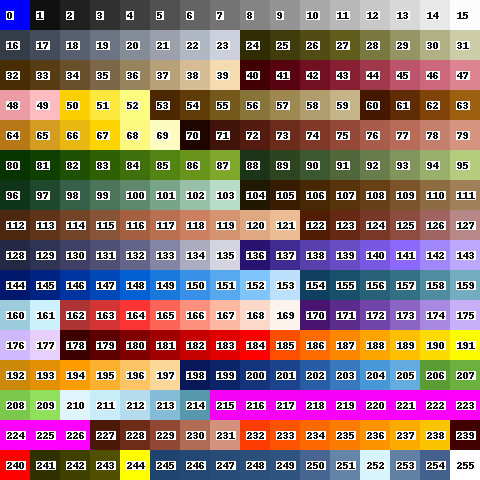
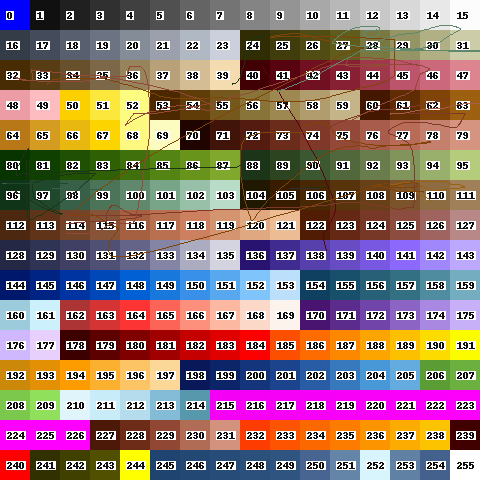
Change: bonus 2 extra teal colours

diff --git a/src/train/model_type.py b/src/train/model_type.py
@@ -2471,7 +2471,7 @@ class AutomobileCarBase(CarModelTypeBase):
         "COMPANY_COLOUR_NO_WEATHERING",
         "COMPLEMENT_COMPANY_COLOUR_NO_WEATHERING",
         "FREIGHT_PEWTER",
-        "FREIGHT_TEAL",
+        "FREIGHT_BONUS_TEAL",
     ]
 
     def __init__(self, **kwargs):
@@ -2585,7 +2585,7 @@ class AutomobileEnclosedCar(CarModelTypeBase):
         "COMPANY_COLOUR_NO_WEATHERING",
         "COMPLEMENT_COMPANY_COLOUR_NO_WEATHERING",
         "FREIGHT_GREY_NO_WEATHERING",
-        "FREIGHT_TEAL",
+        "FREIGHT_BONUS_TEAL",
     ]
 
     model_id_root = "enclosed_automobile_car"
@@ -2714,7 +2714,7 @@ class BoxCarBase(CarModelTypeBase):
         "COMPLEMENT_COMPANY_COLOUR_USE_WEATHERING",
         "COMPANY_COLOUR_USE_WEATHERING",
         "FREIGHT_BONUS_RED_OXIDE",
-        "FREIGHT_TEAL",
+        "FREIGHT_BONUS_TEAL",
     ]
 
     def __init__(self, **kwargs):
@@ -2775,7 +2775,7 @@ class BoxCarType2(BoxCarBase):
         "COMPLEMENT_COMPANY_COLOUR_USE_WEATHERING",
         "COMPANY_COLOUR_USE_WEATHERING",
         "FREIGHT_BONUS_RED_OXIDE",
-        "FREIGHT_TEAL",
+        "FREIGHT_BONUS_TEAL",
     ]
 
     model_id_root = "box_car_type_2"
@@ -2888,14 +2888,12 @@ class BoxCarSlidingWallBase(BoxCarBase):
 
     liveries = [
         "RANDOM_LIVERIES_COMPLEMENT_COMPANY_COLOUR",
-        "RANDOM_LIVERIES_RUBY_RUST", # CABBAGE?
+        "RANDOM_LIVERIES_RUBY_GREY_NIGHTSHADE_NO_WEATHERING",
         "RANDOM_LIVERIES_GREY_PEWTER_SILVER_NO_WEATHERING",
         "RANDOM_LIVERIES_TEAL_PEWTER_SILVER",
         "COMPLEMENT_COMPANY_COLOUR_USE_WEATHERING",
         "COMPANY_COLOUR_USE_WEATHERING",
-        "FREIGHT_BONUS_RED_OXIDE", # CABBAGE
-        "FREIGHT_NIGHTSHADE", # CABBAGE?
-        "FREIGHT_TEAL",
+        "FREIGHT_BONUS_TEAL",
     ]
 
     variant_group_id_root = "wagon_group_sliding_wall_cars"
@@ -2971,12 +2969,12 @@ class BoxCarVehicleParts(BoxCarBase):
     liveries = [
         "RANDOM_LIVERIES_COMPLEMENT_COMPANY_COLOUR",
         "RANDOM_LIVERIES_VARIETY_MUTED",
-        "RANDOM_LIVERIES_GREY_PEWTER_SILVER_NO_WEATHERING",  # CABBAGE
+        "RANDOM_LIVERIES_GREY_PEWTER_SILVER_NO_WEATHERING",
         "RANDOM_LIVERIES_TEAL_PEWTER_SILVER",
         "COMPLEMENT_COMPANY_COLOUR_USE_WEATHERING",
         "COMPANY_COLOUR_USE_WEATHERING",
         "FREIGHT_BONUS_RED_OXIDE",
-        "FREIGHT_TEAL",
+        "FREIGHT_BONUS_TEAL",
         "FREIGHT_PEWTER",
     ]
 
@@ -3045,7 +3043,7 @@ class BulkOpenCarAggregateBase(BulkOpenCarBase):
         "COMPANY_COLOUR_USE_WEATHERING",
         "FREIGHT_BONUS_RED_OXIDE", # CABBAGE
         "FREIGHT_OCHRE",
-        "FREIGHT_TEAL",
+        "FREIGHT_BONUS_TEAL",
     ]
 
     variant_group_id_root = "wagon_group_aggregate_bulk_open_cars"
@@ -3176,7 +3174,7 @@ class BulkOpenCarMineralBase(BulkOpenCarBase):
         "RANDOM_LIVERIES_TEAL_PEWTER_SILVER",
         "COMPLEMENT_COMPANY_COLOUR_USE_WEATHERING",
         "COMPANY_COLOUR_USE_WEATHERING",
-        "FREIGHT_BONUS_RED_OXIDE", # CABBAGE
+        "FREIGHT_BONUS_RED_OXIDE",
     ]
 
     variant_group_id_root = "wagon_group_mineral_bulk_open_cars"
@@ -3261,7 +3259,7 @@ class BulkOpenCarScrapMetalBase(BulkOpenCarBase):
         "COMPLEMENT_COMPANY_COLOUR_USE_WEATHERING",
         "COMPANY_COLOUR_USE_WEATHERING",
         "FREIGHT_BONUS_RED_OXIDE",
-        "FREIGHT_TEAL",
+        "FREIGHT_BONUS_TEAL",
     ]
 
     variant_group_id_root = "wagon_group_scrap_metal_cars"
@@ -3334,7 +3332,7 @@ class BulkOpenCarTipplerBase(BulkOpenCarBase):
         "FREIGHT_OCHRE",
         "FREIGHT_SAND",
         "FREIGHT_SILVER",
-        "FREIGHT_TEAL",
+        "FREIGHT_BONUS_TEAL",
     ]
 
     variant_group_id_root = "wagon_group_tippler_bulk_open_cars"
@@ -3557,7 +3555,7 @@ class CaneBinCar(CarModelTypeBase):
         "RANDOM_LIVERIES_RUST_GREY_NIGHTSHADE",
         "COMPLEMENT_COMPANY_COLOUR_USE_WEATHERING",
         "COMPANY_COLOUR_USE_WEATHERING",
-        "FREIGHT_BONUS_RED_OXIDE", # CABBAGE
+        "FREIGHT_BONUS_RED_OXIDE",
         "FREIGHT_GREY",
         "FREIGHT_NIGHTSHADE",
     ]
@@ -3689,7 +3687,7 @@ class CoilCarBase(CarModelTypeBase):
         "COMPLEMENT_COMPANY_COLOUR_USE_WEATHERING",
         "COMPANY_COLOUR_USE_WEATHERING",
         "FREIGHT_BONUS_RED_OXIDE",
-        "FREIGHT_TEAL",
+        "FREIGHT_BONUS_TEAL",
     ]
 
     def __init__(self, **kwargs):
@@ -4051,7 +4049,7 @@ class ExpressFoodCarBase(CarModelTypeBase):
         "RANDOM_LIVERIES_TEAL_PEWTER_SILVER",
         "COMPLEMENT_COMPANY_COLOUR_USE_WEATHERING",
         "COMPANY_COLOUR_USE_WEATHERING",
-        "FREIGHT_TEAL",
+        "FREIGHT_BONUS_TEAL",
     ]
 
     def __init__(self, **kwargs):
@@ -4381,7 +4379,7 @@ class FoodHopperCarBase(FarmProductsHopperCarBase):
     liveries = [
         "COMPANY_COLOUR_USE_WEATHERING",
         "COMPLEMENT_COMPANY_COLOUR_USE_WEATHERING",
-        "FREIGHT_TEAL",
+        "FREIGHT_BONUS_TEAL",
     ]
 
     variant_group_id_root = "wagon_group_food_hopper_cars"
@@ -4473,7 +4471,7 @@ class FlatCarBase(CarModelTypeBase):
         "RANDOM_LIVERIES_TEAL_PEWTER_SILVER",
         "COMPLEMENT_COMPANY_COLOUR_USE_WEATHERING",
         "COMPANY_COLOUR_USE_WEATHERING",
-        "FREIGHT_BONUS_RED_OXIDE", # CABBAGE
+        "FREIGHT_BONUS_RED_OXIDE",
         # didn't bother with teal, marginal benefit
     ]
 
@@ -4993,7 +4991,7 @@ class HopperCarMGRBase(HopperCarBase):
         "COMPLEMENT_COMPANY_COLOUR_USE_WEATHERING",
         "COMPANY_COLOUR_USE_WEATHERING",
         "FREIGHT_BONUS_RED_OXIDE",
-        "FREIGHT_TEAL",
+        "FREIGHT_BONUS_TEAL",
     ]
     variant_group_id_root = "wagon_group_mgr_hopper_cars"
     # don't include MGR hoppers in randomised lists, they don't look good
@@ -5278,7 +5276,7 @@ class KaolinHopperCar(CarModelTypeBase):
     liveries = [
         "COMPANY_COLOUR_USE_WEATHERING",
         "COMPLEMENT_COMPANY_COLOUR_USE_WEATHERING",
-        "FREIGHT_TEAL",
+        "FREIGHT_BONUS_TEAL",
     ]
 
     model_id_root = "kaolin_hopper_car"
@@ -5808,7 +5806,7 @@ class MineralCoveredHopperCarLimeBase(MineralCoveredHopperCarBase):
         "COMPLEMENT_COMPANY_COLOUR_USE_WEATHERING",
         "COMPANY_COLOUR_USE_WEATHERING",
         "FREIGHT_SAND", # CABBAGE?
-        "FREIGHT_TEAL",
+        "FREIGHT_BONUS_TEAL",
     ]
 
     variant_group_id_root = "wagon_group_lime_covered_hopper_cars"
@@ -5940,7 +5938,7 @@ class MineralCoveredHopperCarRollerRoofBase(MineralCoveredHopperCarBase):
         "FREIGHT_NIGHTSHADE", # CABBAGE?
         "FREIGHT_SAND", # CABBAGE?
         "FREIGHT_SILVER", # CABBAGE?
-        "FREIGHT_TEAL",
+        "FREIGHT_BONUS_TEAL",
     ]
 
     variant_group_id_root = "wagon_group_roller_roof_hopper_cars"
@@ -6027,7 +6025,7 @@ class MineralCoveredHopperCarSaltBase(MineralCoveredHopperCarBase):
         "FREIGHT_BONUS_RED_OXIDE",
         "FREIGHT_SAND", # CABBAGE?
         "FREIGHT_SILVER", # CABBAGE?
-        "FREIGHT_TEAL",
+        "FREIGHT_BONUS_TEAL",
     ]
 
     variant_group_id_root = "wagon_group_salt_covered_hopper_cars"
@@ -6111,7 +6109,7 @@ class OpenCarBase(CarModelTypeBase):
         "COMPLEMENT_COMPANY_COLOUR_USE_WEATHERING",
         "COMPANY_COLOUR_USE_WEATHERING",
         "FREIGHT_BONUS_RED_OXIDE",
-        "FREIGHT_TEAL",
+        "FREIGHT_BONUS_TEAL",
     ]
 
     randomised_candidate_groups = [
@@ -6198,7 +6196,7 @@ class OpenCarHighEnd(OpenCarBase):
         "COMPLEMENT_COMPANY_COLOUR_USE_WEATHERING",
         "COMPANY_COLOUR_USE_WEATHERING",
         "FREIGHT_BONUS_RED_OXIDE",
-        "FREIGHT_TEAL",
+        "FREIGHT_BONUS_TEAL",
     ]
 
     model_id_root = "high_end_open_car"
@@ -6236,7 +6234,7 @@ class OpenCarMill(OpenCarBase):
         "COMPLEMENT_COMPANY_COLOUR_USE_WEATHERING",
         "COMPANY_COLOUR_USE_WEATHERING",
         "FREIGHT_BONUS_RED_OXIDE",
-        "FREIGHT_TEAL",
+        "FREIGHT_BONUS_TEAL",
     ]
 
     model_id_root = "mill_open_car"
@@ -6838,7 +6836,7 @@ class PeatCar(CarModelTypeBase):
         "RANDOM_LIVERIES_OIL_BLACK_OBSIDIAN",
         "COMPLEMENT_COMPANY_COLOUR_USE_WEATHERING",
         "COMPANY_COLOUR_USE_WEATHERING",
-        "FREIGHT_TEAL",
+        "FREIGHT_BONUS_TEAL",
     ]
 
     model_id_root = "peat_car"
@@ -7079,7 +7077,7 @@ class SiloCarBase(CarModelTypeBase):
         "RANDOM_LIVERIES_VARIETY_MUTED_EARTH",
         "RANDOM_LIVERIES_SULPHUR_OCHRE_NO_WEATHERING",
         "RANDOM_LIVERIES_GREY_PEWTER_SILVER_NO_WEATHERING",
-        "RANDOM_LIVERIES_VIOLET_TEAL_LIGHT_BLUE",
+        "RANDOM_LIVERIES_VIOLET_TEAL_OCEAN_TEAL",
         "COMPLEMENT_COMPANY_COLOUR_USE_WEATHERING",
         "COMPANY_COLOUR_USE_WEATHERING",
         "FREIGHT_BONUS_RED_OXIDE",
@@ -7317,7 +7315,7 @@ class SlidingRoofCarHiCube(BoxCarBase):
         "COMPANY_COLOUR_USE_WEATHERING",
         "FREIGHT_RUBY", # CABBAGE?
         "FREIGHT_BONUS_RED_OXIDE", # CABBAGE?
-        "FREIGHT_TEAL",
+        "FREIGHT_BONUS_TEAL",
         "FREIGHT_PEWTER", # CABBAGE?
     ]
 
@@ -7434,7 +7432,7 @@ class TankCarAcidBase(TankCarBase):
         "COMPLEMENT_COMPANY_COLOUR_USE_WEATHERING",
         "COMPANY_COLOUR_USE_WEATHERING",
         "FREIGHT_BONUS_RED_OXIDE",
-        "FREIGHT_TEAL",
+        "FREIGHT_BONUS_TEAL",
     ]
 
     variant_group_id_root = "wagon_group_acid_tank_cars"
@@ -7553,7 +7551,7 @@ class TankCarProductBase(TankCarBase):
         "COMPLEMENT_COMPANY_COLOUR_USE_WEATHERING",
         "COMPANY_COLOUR_USE_WEATHERING",
         "FREIGHT_BONUS_RED_OXIDE",
-        "FREIGHT_TEAL",
+        "FREIGHT_BONUS_TEAL",
     ]
 
     variant_group_id_root = "wagon_group_product_tank_cars"
@@ -7636,7 +7634,7 @@ class TankCarStandardBase(TankCarBase):
         "COMPLEMENT_COMPANY_COLOUR_USE_WEATHERING",
         "COMPANY_COLOUR_USE_WEATHERING",
         "FREIGHT_BONUS_RED_OXIDE",
-        "FREIGHT_TEAL",
+        "FREIGHT_BONUS_TEAL",
     ]
 
     variant_group_id_root = "wagon_group_tank_cars"
@@ -7724,7 +7722,7 @@ class TankCarVolatilesBase(TankCarBase):
         "COMPANY_COLOUR_USE_WEATHERING",
         "FREIGHT_RED", # CABBAGE - REMOVE - UNWEATHERED, REPLACE WITH PINK / RED
         "FREIGHT_BONUS_RED_OXIDE",
-        "FREIGHT_TEAL",
+        "FREIGHT_BONUS_TEAL",
     ]
 
     variant_group_id_root = "wagon_group_volatiles_tank_cars"
@@ -7770,7 +7768,7 @@ class TarpaulinCarBase(BoxCarBase):
         "COMPLEMENT_COMPANY_COLOUR_USE_WEATHERING",
         "COMPANY_COLOUR_USE_WEATHERING",
         "FREIGHT_BONUS_RED_OXIDE",
-        "FREIGHT_TEAL",
+        "FREIGHT_BONUS_TEAL",
     ]
 
     variant_group_id_root = "wagon_group_tarpaulin_cars"
@@ -7835,7 +7833,7 @@ class TarpaulinCarType3(TarpaulinCarBase):
         "COMPLEMENT_COMPANY_COLOUR_USE_WEATHERING",
         "COMPANY_COLOUR_USE_WEATHERING",
         "FREIGHT_BONUS_RED_OXIDE",
-        "FREIGHT_TEAL",
+        "FREIGHT_BONUS_TEAL",
     ]
 
     model_id_root = "tarpaulin_car_type_3"
@@ -7871,7 +7869,7 @@ class TarpaulinCarRandomised(RandomisedCarMixin, TarpaulinCarBase):
         "RANDOM_LIVERIES_CLOVER_OCHRE_SULPHUR",
         "RANDOM_LIVERIES_TEAL_PEWTER_SILVER",
         "FREIGHT_BONUS_RED_OXIDE",
-        "FREIGHT_TEAL",
+        "FREIGHT_BONUS_TEAL",
     ]
 
     model_id_root = "tarpaulin_car_randomised"

diff --git a/src/global_constants.py b/src/global_constants.py
@@ -418,6 +418,8 @@ custom_wagon_recolour_sprite_maps = {
     "custom_light_nightshade": (1, 2, 106, 17, 18, 7, 20, 10),
     "custom_teal": (88, 97, 98, 157, 158, 159, 160, 103),
     "custom_dark_teal": (88, 97, 156, 157, 158, 101, 102, 103),
+    "custom_ocean_teal": (105, 33, 249, 157, 158, 159, 160, 14),
+    "custom_dark_ocean_teal": (104, 88, 155, 156, 158, 159, 102, 31),
     "custom_violet": (
         105,
         136,
@@ -471,6 +473,7 @@ colour_sets = {
     "freight_grey": ["custom_dark_grey", "COLOUR_GREY"],
     "freight_nightshade": ["custom_nightshade", "custom_light_nightshade"],
     "freight_teal": ["custom_teal", "custom_dark_teal"],
+    "freight_ocean_teal": ["custom_ocean_teal", "custom_dark_ocean_teal"],
     "freight_violet": ["custom_violet", "custom_faded_violet"],
     "freight_silver": ["custom_silver", "custom_dark_silver"],
     "freight_pewter": ["custom_pewter", "custom_dark_pewter"],
@@ -623,10 +626,10 @@ freight_wagon_liveries = {
             ("COLOUR_RED", "COLOUR_WHITE"),
         ],
     },
-    "RANDOM_LIVERIES_VIOLET_TEAL_LIGHT_BLUE": {
+    "RANDOM_LIVERIES_VIOLET_TEAL_OCEAN_TEAL": {
         "colour_set_names": [
-            "freight_teal",  # ordered for random weighting to teal / blue
-            "light_blue",  # similar to teal, but adds variety
+            "freight_teal",  # ordered for random weighting to teal
+            "freight_ocean_teal",
             "freight_violet",
         ],
         "purchase_colour_set_name": "freight_violet",
@@ -768,10 +771,10 @@ freight_wagon_liveries = {
     "RANDOM_LIVERIES_TEAL_PEWTER_SILVER": {
         "colour_set_names": [
             "freight_teal",
-            "freight_teal",
+            "freight_teal", # double teal for random balance, don't bother using freight_ocean_teal, too much variation then
             "freight_pewter",
             "freight_silver",
-        ],  # double teal for random balance
+        ],
         "use_weathering": True,
         "docs_image_input_cc": [
             ("COLOUR_BLUE", "COLOUR_BLUE"),
@@ -809,6 +812,18 @@ freight_wagon_liveries = {
     "FREIGHT_BONUS_RED_OXIDE": {
         "colour_set_names": ["freight_red_oxide", "freight_rust"],
         "purchase_colour_set_name": "freight_red_oxide", # best choice, contrasts with rust if used in random mix
+        "use_weathering": True,
+        "group_as_static_livery": True,
+        "docs_image_input_cc": [
+            ("COLOUR_BLUE", "COLOUR_BLUE"),
+            ("COLOUR_RED", "COLOUR_WHITE"),
+        ],
+    },
+    "FREIGHT_BONUS_TEAL": {
+        "colour_set_names": [
+            "freight_teal",
+            "freight_ocean_teal",
+        ],
         "use_weathering": True,
         "group_as_static_livery": True,
         "docs_image_input_cc": [
@@ -906,16 +921,6 @@ freight_wagon_liveries = {
     },
     "FREIGHT_SULPHUR": {
         "colour_set_names": ["freight_sulphur"],
-        "use_weathering": True,
-        "docs_image_input_cc": [
-            ("COLOUR_BLUE", "COLOUR_BLUE"),
-            ("COLOUR_RED", "COLOUR_WHITE"),
-        ],
-    },
-    "FREIGHT_TEAL": {
-        "colour_set_names": [
-            "freight_teal",
-        ],
         "use_weathering": True,
         "docs_image_input_cc": [
             ("COLOUR_BLUE", "COLOUR_BLUE"),
